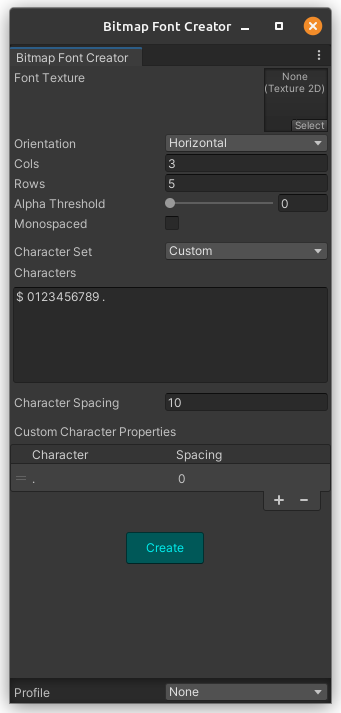
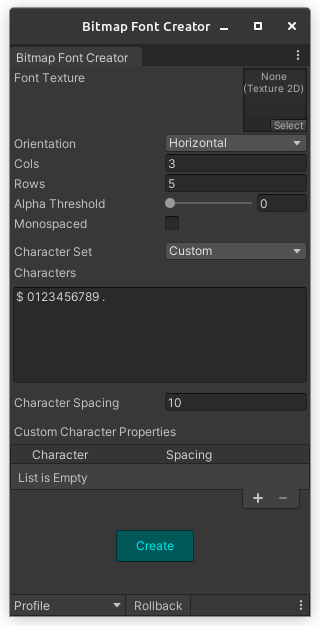
Documentation updated

diff --git a/README.md b/README.md
@@ -6,38 +6,54 @@ A simple tool to create bitmap fonts from a texture sprite sheet to be used with
 
 ## How to use it
 
-Select a texture, set the [options](#options) accondingly and hit _Create_. It will create a _Material_ and a _Font Settings_ asset with the same name as the texture and in the same folder.
+Select a texture, change the [settings](#settings) accondingly and hit _Create_. It will create a _Material_ and a _Font Settings_ asset with the same name as the texture and in the same folder.
 
 Make sure your texture has the _Read/Write_ enabled inside its properties.
 
 Because of some [limitation](#limitations), it'll not set the _Line Spacing_ field. If you need support to multi-line text, set it on the generated Font Settings file.
 
-## Options
+## Settings
 
-Options are for the project and saved inside the folder _Assets/Editor/Resources_.
+Settings can be saved to [profiles](#profiles) and retrieved to be used later.
 
--  **Texture**: Texture used for the font.
+-  **Texture**: Texture used for the font. This is not saved to the profile.
 -  **Orientation**: Order to look up for characters in the texture. Values: horizontal, vertical.
 -  **Cols**: Number of columns in the texture.
 -  **Rows**: Number of rows in the texture.
 -  **Alpha Threshold**: Alpha threshold to identify characters bounds.
 -  **Monospaced**: Whether the result font should be monospaced.
--  **Character Set**: Predefined character set to use.
+-  **Character Set**: Predefined character set to use. This is not saved to the profile.
 -  **Characters**: Characters used in the font in order they appear in the texture. Use the space character to represent blank spaces in the texture.
 -  **Default Character Spacing**: Default spacing between characters.
 -  **Custom Character Properties**: Custom properties for each characters, if any. For now the only custom property is the spacing.
--  **Profile**: Manage profiles. You can select, create, edit or delete profiles. Same as layout profiles in Unity.
 
 ## Preferences
 
-Preferences are for the editor and saved inside the _EditorPrefs_.
+Preferences are saved in the editor using _EditorPrefs_.
 
 -  **Warn before overwrite**. Warn before overwriting an existing font. This will replace the old font keeping the references.
 -  **Warn before replacing settings**. Warn before replacing settings when selecting a profile.
+-  **Warn before replacing profile**. Warn before replacing an existing profile.
+
+## Buttons
+
+-  **Create**. Creates the font using the given settings.
+-  **Rollback**. Rollback settings to the selected profile or default if none is selected.
+
+## Profiles
+
+You can save profiles to retrieve them later, making easy to create patterns depending on the type of texture or font you are creating.
+
+Profiles are saved to the each project inside the folder _Assets/Editor/Resources_.
+
+All [settings](#settings) except for the _Texture_ and the _Character Set_ can be saved to the profile.
+
+You can manage profiles by opening the _Profiles_ menu at the bottom left corner of the popup. Select, create, edit or delete profiles like you do with layout profiles in Unity.
 
 ## Limitations
 
-This tool makes the most of the work to create a bitmap font to be used with the Text component but it has some limitations:
+This tool makes the most of the work to create a bitmap font to be used with Text components but it has some limitations:
 
 -  **It works only with font sprite sheets not sprite atlases**. It means that the distance between characters in the texture are the same and there is a fixed value of rows and columns. In other words, it has to be a grid of characters. They can't be sparsed.
 -  **It can't set the line specing property**. For some reason, Unity doesn't allow us to edit the _line spacing_ field by code. You need to set it manually after running the tool.
+-  **The resultant font works only with Legacy Text Component**. It doens't work with TextMeshPro texts.
